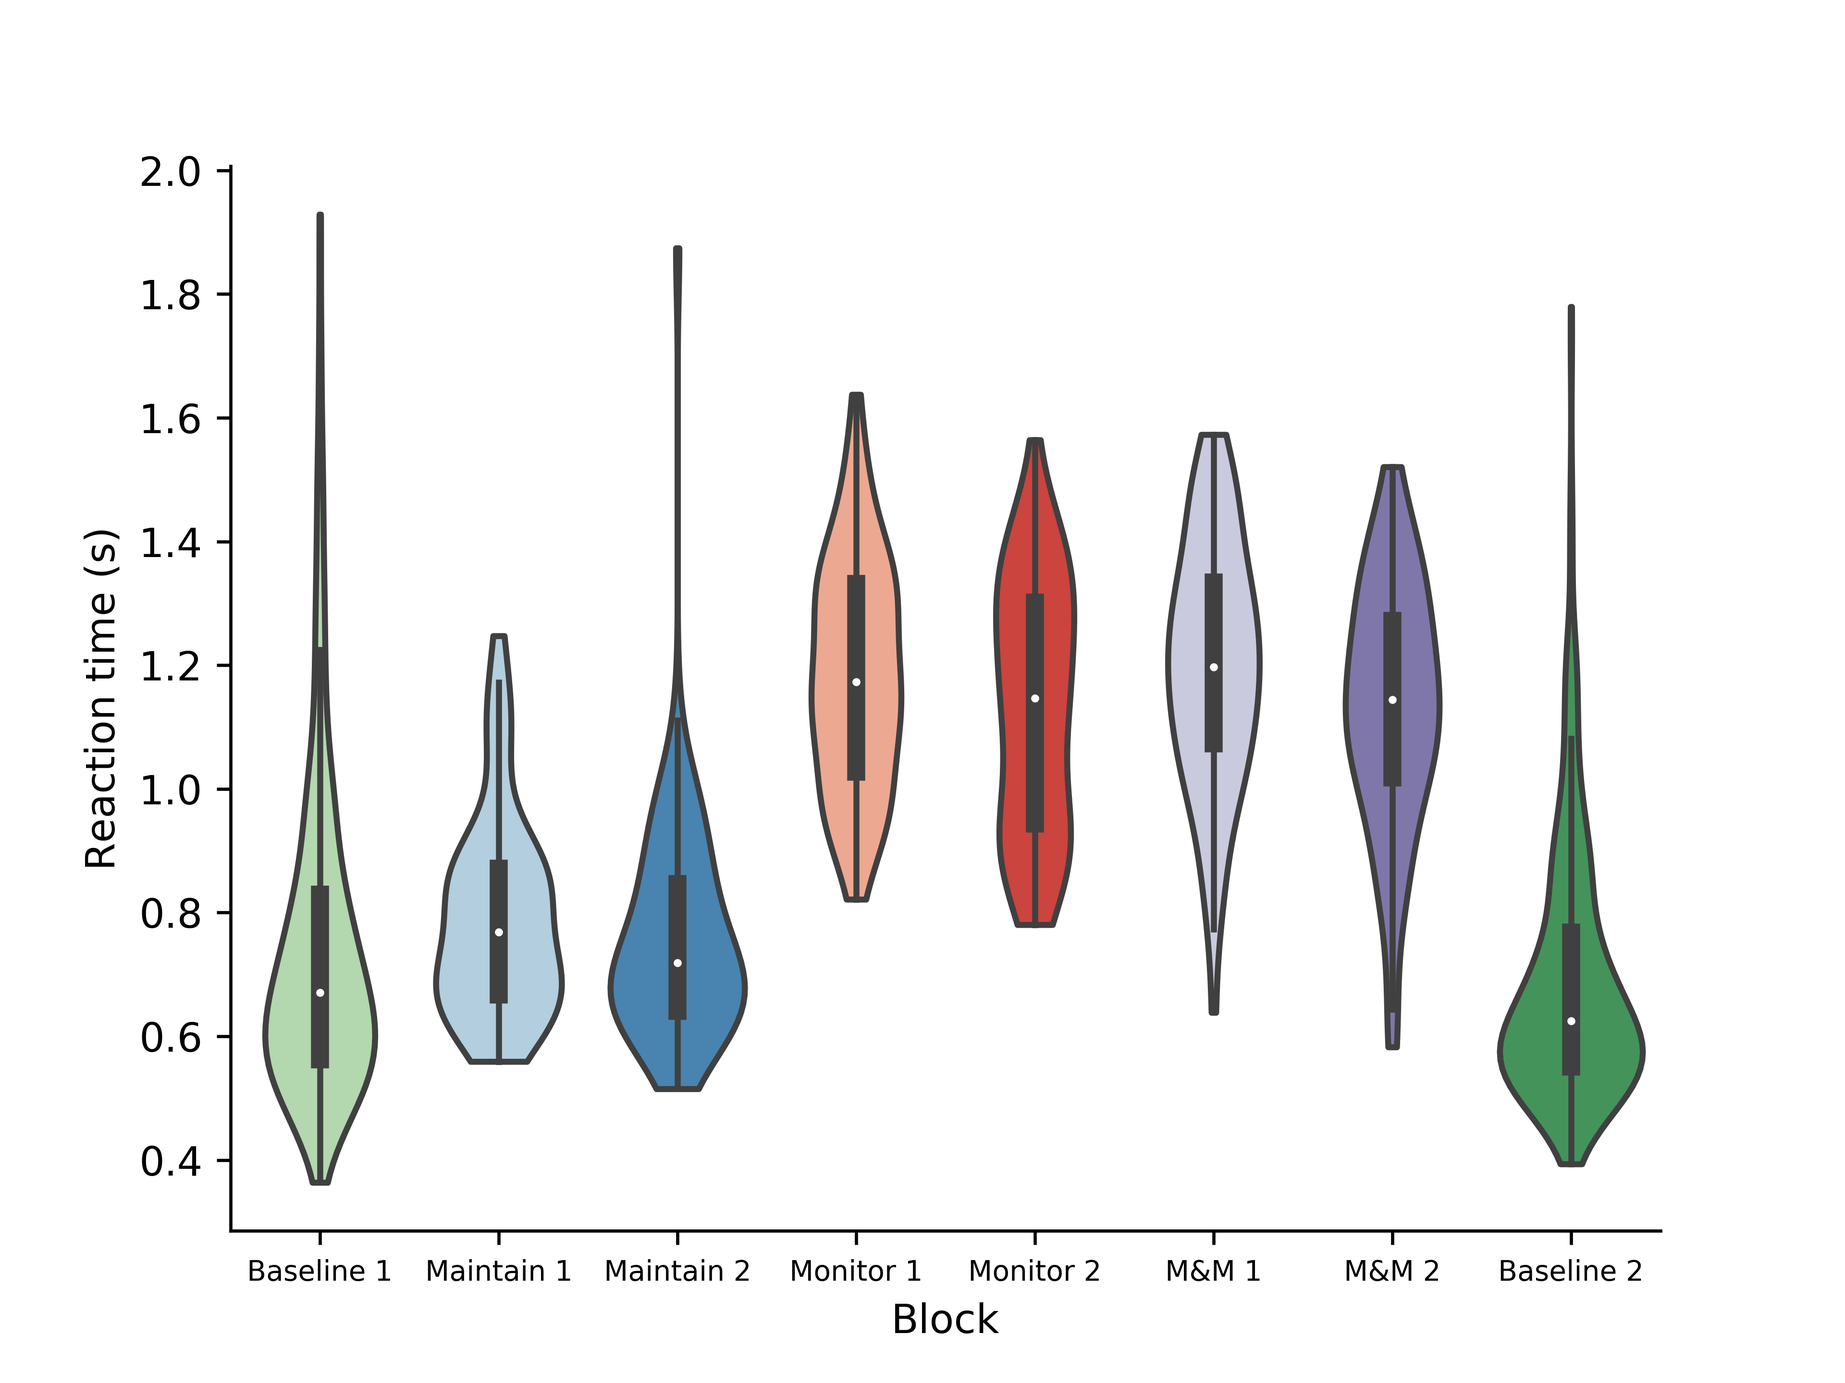
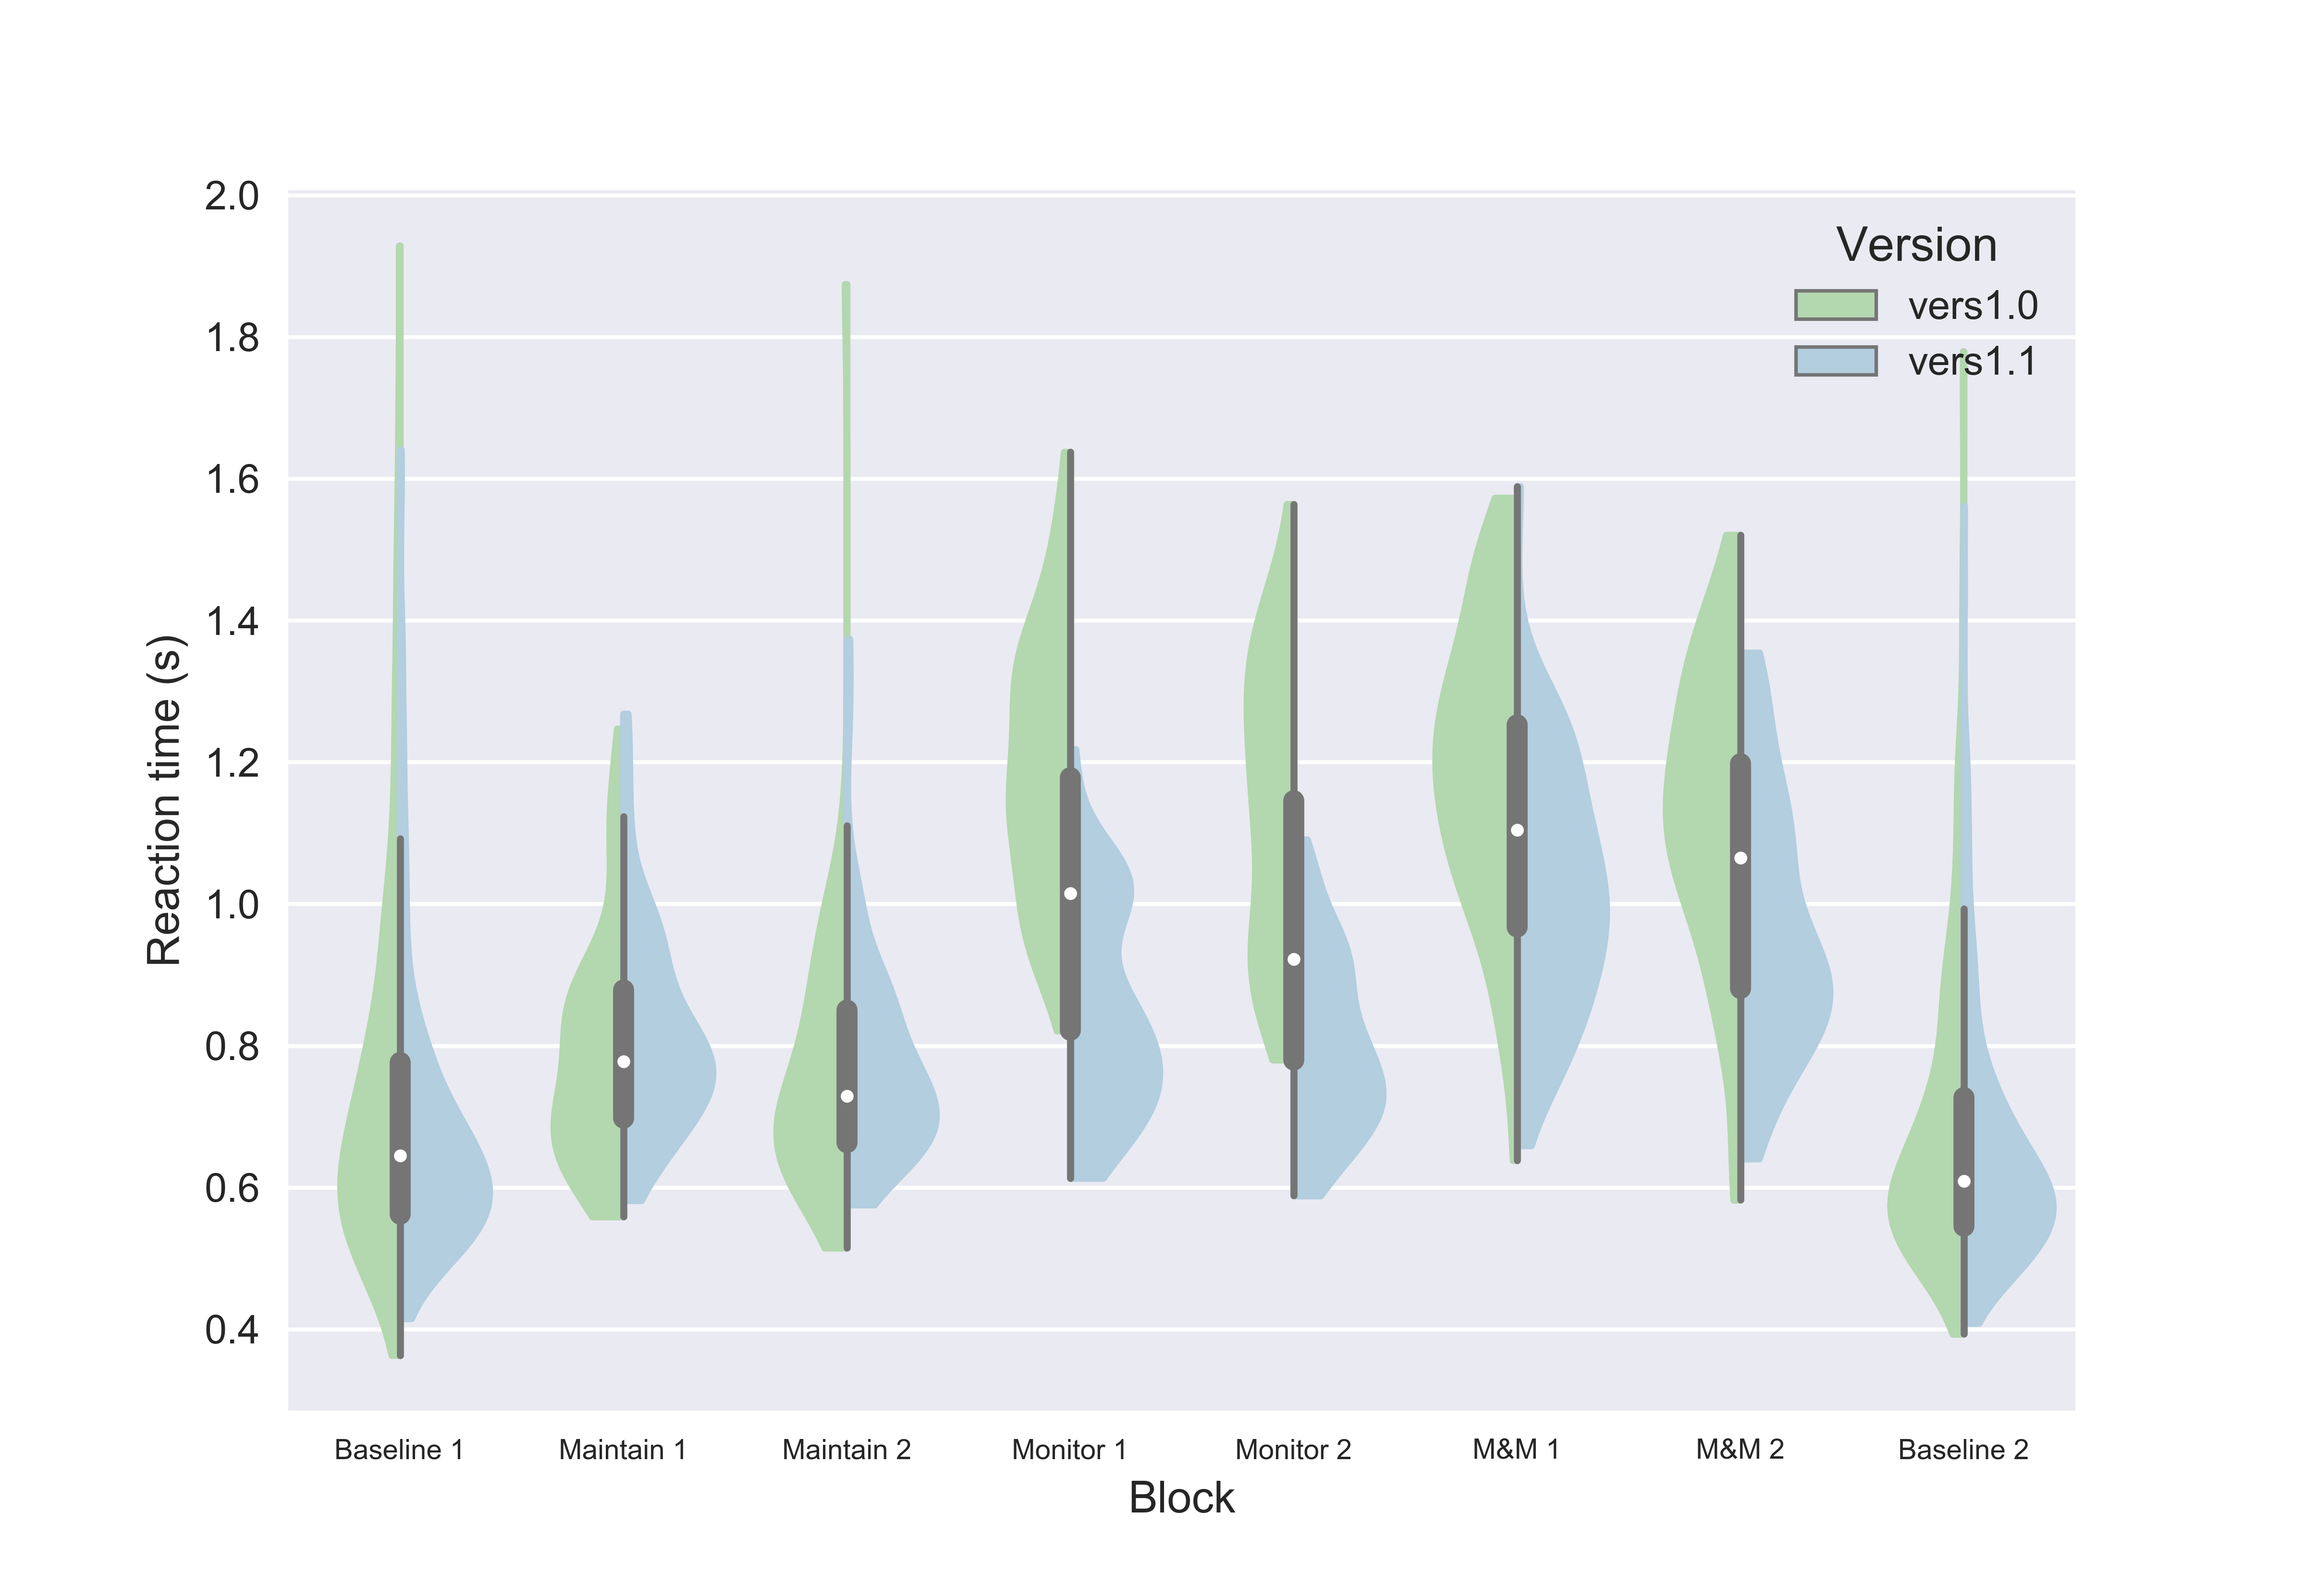
split plots by version

diff --git a/analysis/monitain_analysis_v1.1.py b/analysis/monitain_analysis_v1.1.py
@@ -418,6 +418,9 @@ plt.close()
 
 
 
+all_df_v10 = pd.concat([block_base1_df, block_maintain1_df, block_maintain2_df, block_monitor1_df, block_monitor2_df, block_mnm1_df, block_mnm2_df, block_base2_df], axis=0)
+all_df_v11 = pd.concat([block_base1_df, block_maintain1_df, block_maintain2_df, block_monitor1_df, block_monitor2_df, block_mnm1_df, block_mnm2_df, block_base2_df], axis=0)
+
 
 
 
@@ -425,25 +428,24 @@ plt.close()
 
 
 #allTogether_df.columns = ['subj', 'pm_acc', 'meanTrial_rt', 'block']
-ax = sea.violinplot(x='block', y = 'meanTrial_rt', data=all_df_combined, palette = my_pal, cut = 0)
+ax = sea.violinplot(x='block', y = 'meanTrial_rt', hue = 'version', data=all_df_combined, palette = my_pal, cut = 0, split = True)
 plt.xlabel('Block')
 plt.ylabel('Reaction time (s)')
+ax.legend(title = 'Version')
 ax.tick_params(axis='x', labelsize=7)
 sea.despine()
 plt.savefig(FIGURE_PATH + 'all_together_compare_rt.png', dpi = 600)
 plt.close()
 
 # PM Accuracy
-ax = sea.barplot(x='block', y= 'pm_acc', data=all_df, palette=my_pal, ci = None)
+ax = sea.barplot(x='block', y= 'pm_acc', hue = 'version', data=all_df_combined, palette=my_pal, ci = None)
 plt.xlabel('Block')
 plt.ylabel('PM accuracy')
+ax.legend(title = 'Version')
 ax.tick_params(axis='x', labelsize=7)
 sea.despine()
 plt.savefig(FIGURE_PATH + 'all_together_compare_pmacc.png', dpi = 600)
 plt.close() 
-
-all_df_v10 = pd.concat([block_base1_df, block_maintain1_df, block_maintain2_df, block_monitor1_df, block_monitor2_df, block_mnm1_df, block_mnm2_df, block_base2_df], axis=0)
-all_df_v11 = pd.concat([block_base1_df, block_maintain1_df, block_maintain2_df, block_monitor1_df, block_monitor2_df, block_mnm1_df, block_mnm2_df, block_base2_df], axis=0)
 
 
 # for i in all_df.index: 
@@ -477,13 +479,16 @@ sea.despine()
 plt.savefig(FIGURE_PATH + 'all_bysubj_compare_rt.png', dpi = 600)
 plt.close()
 
-all_df_minusBase = all_df.copy()
-all_df_minusBase.drop(all_df_minusBase[all_df_minusBase['block'] == "Baseline 2"].index, inplace=True)
-all_df_minusBase.drop(all_df_minusBase[all_df_minusBase['block'] == "Baseline 1"].index, inplace=True)
+#all_df_minusBase = all_df.copy()
+#all_df_minusBase.drop(all_df_minusBase[all_df_minusBase['block'] == "Baseline 2"].index, inplace=True)
+#all_df_minusBase.drop(all_df_minusBase[all_df_minusBase['block'] == "Baseline 1"].index, inplace=True)
 
+all_df_combined_minusBase = all_df_combined.copy()
+all_df_combined_minusBase.drop(all_df_combined_minusBase[all_df_combined_minusBase['block'] == "Baseline 2"].index, inplace=True)
+all_df_combined_minusBase.drop(all_df_combined_minusBase[all_df_combined_minusBase['block'] == "Baseline 1"].index, inplace=True)
 
 # PM Accuracy
-ax = sea.barplot(x='subj', y= 'pm_acc', hue= 'block', data=all_df_minusBase, palette=my_pal[1:-1], ci = None)
+ax = sea.barplot(x='subj', y= 'pm_acc', hue= 'block', data=all_df_combined_minusBase, palette=my_pal[1:-1], ci = None)
 plt.xlabel('Subject')
 plt.ylabel('PM accuracy')
 plt.legend(title = 'Blocks',  
@@ -494,7 +499,7 @@ plt.savefig(FIGURE_PATH + 'all_bysubj_compare_pmacc.png', dpi = 600)
 plt.close()
 
 # OG Accuracy
-ax = sea.barplot(x='subj', y= 'og_acc', hue= 'block', data=all_df, palette=my_pal, ci = None)
+ax = sea.barplot(x='subj', y= 'og_acc', hue= 'block', data=all_df_combined, palette=my_pal, ci = None)
 plt.xlabel('Subject')
 plt.ylabel('OG accuracy')
 plt.legend(title = 'Blocks',  
@@ -507,7 +512,7 @@ plt.close()
 
 
 #allTogether_df.columns = ['subj', 'pm_acc', 'meanTrial_rt', 'block']
-ax = sea.violinplot(x='block', y = 'meanTrial_rt', data=all_df, palette = my_pal, cut = 0)
+ax = sea.violinplot(x='block', y = 'meanTrial_rt', data=all_df_combined, palette = my_pal, cut = 0)
 plt.xlabel('Block')
 plt.ylabel('Reaction time (s)')
 ax.tick_params(axis='x', labelsize=7)
@@ -516,7 +521,7 @@ plt.savefig(FIGURE_PATH + 'all_together_compare_rt.png', dpi = 600)
 plt.close()
 
 # PM Accuracy
-ax = sea.barplot(x='block', y= 'pm_acc', data=all_df_minusBase, palette=my_pal[1:-1], ci = None)
+ax = sea.barplot(x='block', y= 'pm_acc', data=all_df_combined_minusBase, palette=my_pal[1:-1], ci = None)
 plt.xlabel('Block')
 plt.ylabel('PM accuracy')
 ax.tick_params(axis='x', labelsize=7)
@@ -525,7 +530,7 @@ plt.savefig(FIGURE_PATH + 'all_together_compare_pmacc.png', dpi = 600)
 plt.close()
 
 # OG Accuracy
-ax = sea.barplot(x='block', y= 'og_acc', data=all_df, palette=my_pal, ci = None)
+ax = sea.barplot(x='block', y= 'og_acc', data=all_df_combined, palette=my_pal, ci = None)
 plt.xlabel('Subject')
 plt.ylabel('OG accuracy')
 ax.tick_params(axis='x', labelsize=7)
